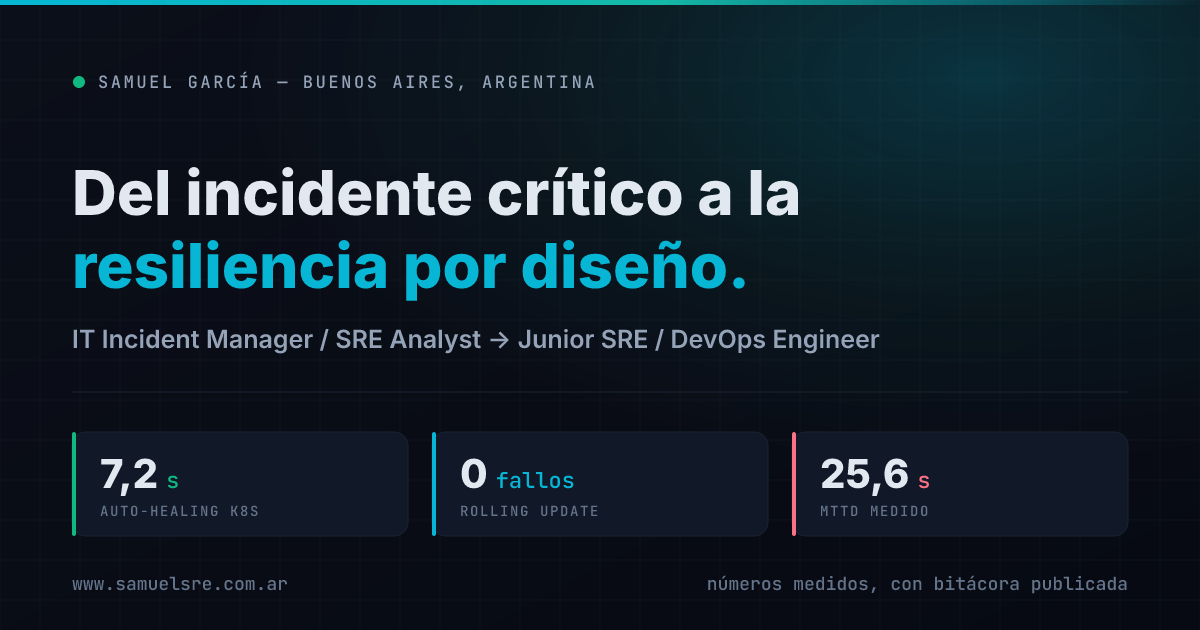
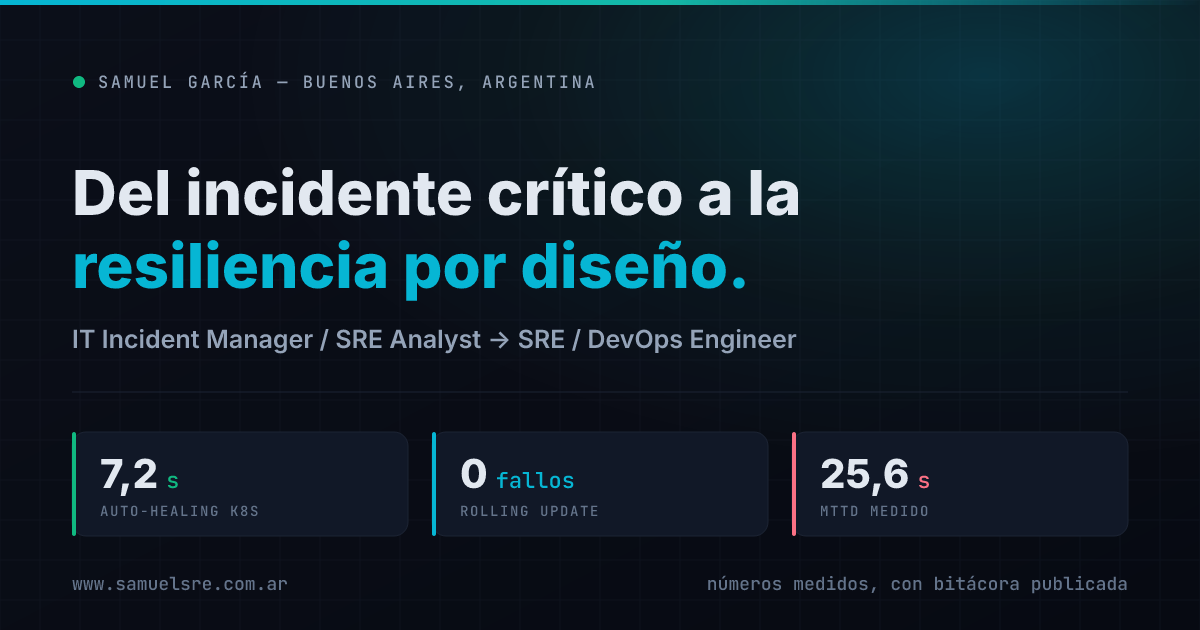
Rol objetivo: SRE / DevOps Engineer, sin Junior

Changed region(s): [[0.4317, 0.5127, 0.74, 0.573]]

diff --git a/src/data/content.js b/src/data/content.js
@@ -42,7 +42,7 @@ export const profile = {
   nombre: 'Samuel Eduardo García Baciliadis',
   alias: 'Samuel García',
   rol: 'IT Incident Manager / SRE Analyst',
-  target: 'Junior SRE / DevOps Engineer',
+  target: 'SRE / DevOps Engineer',
   ubicacion: 'Buenos Aires, Argentina · Remoto / Híbrido',
   idiomas: 'Español (nativo) · Inglés (intermedio)',
   disponibilidad: 'Disponible para nuevas oportunidades',
@@ -604,7 +604,7 @@ export const contacto = {
 //  sección de trayectoria del sitio.
 // ─────────────────────────────────────────────────────────────
 export const cv = {
-  titular: 'IT Incident Manager / SRE Analyst → Junior SRE / DevOps Engineer',
+  titular: 'IT Incident Manager / SRE Analyst → SRE / DevOps Engineer',
   resumen:
     'Más de 4 años en operaciones IT, con foco en la gestión de incidentes críticos P1/P2 (Major Incident Management) en Fintech y Telecomunicaciones: liderazgo de War Rooms, escalamiento, restauración del servicio bajo presión y cierre con RCA y acciones preventivas. Hoy oriento esa disciplina hacia SRE y DevOps —observabilidad, automatización y confiabilidad— con laboratorios propios donde inyecto fallas, mido detección y recuperación, y publico la bitácora de cada corrida.',
   secciones: {

diff --git a/src/data/content.en.js b/src/data/content.en.js
@@ -41,7 +41,7 @@ const traducirPorId = (base, traducciones) =>
 export const profile = {
   ...profileEs,
   rol: 'IT Incident Manager / SRE Analyst',
-  target: 'Junior SRE / DevOps Engineer',
+  target: 'SRE / DevOps Engineer',
   ubicacion: 'Buenos Aires, Argentina · Remote / Hybrid',
   idiomas: 'Spanish (native) · English (intermediate)',
   disponibilidad: 'Open to new opportunities',
@@ -477,7 +477,7 @@ export const contacto = {
 //  derived from the other exports rather than written twice.
 // ─────────────────────────────────────────────────────────────
 export const cv = {
-  titular: 'IT Incident Manager / SRE Analyst → Junior SRE / DevOps Engineer',
+  titular: 'IT Incident Manager / SRE Analyst → SRE / DevOps Engineer',
   resumen:
     'Over 4 years in IT operations, focused on critical P1/P2 incident management (Major Incident Management) in Fintech and Telecommunications: leading War Rooms, escalations, restoring service under pressure and closing out with RCAs and preventive actions. Today I am directing that discipline towards SRE and DevOps — observability, automation and reliability — through personal labs where I inject faults, measure detection and recovery, and publish the log of every run.',
   secciones: {
